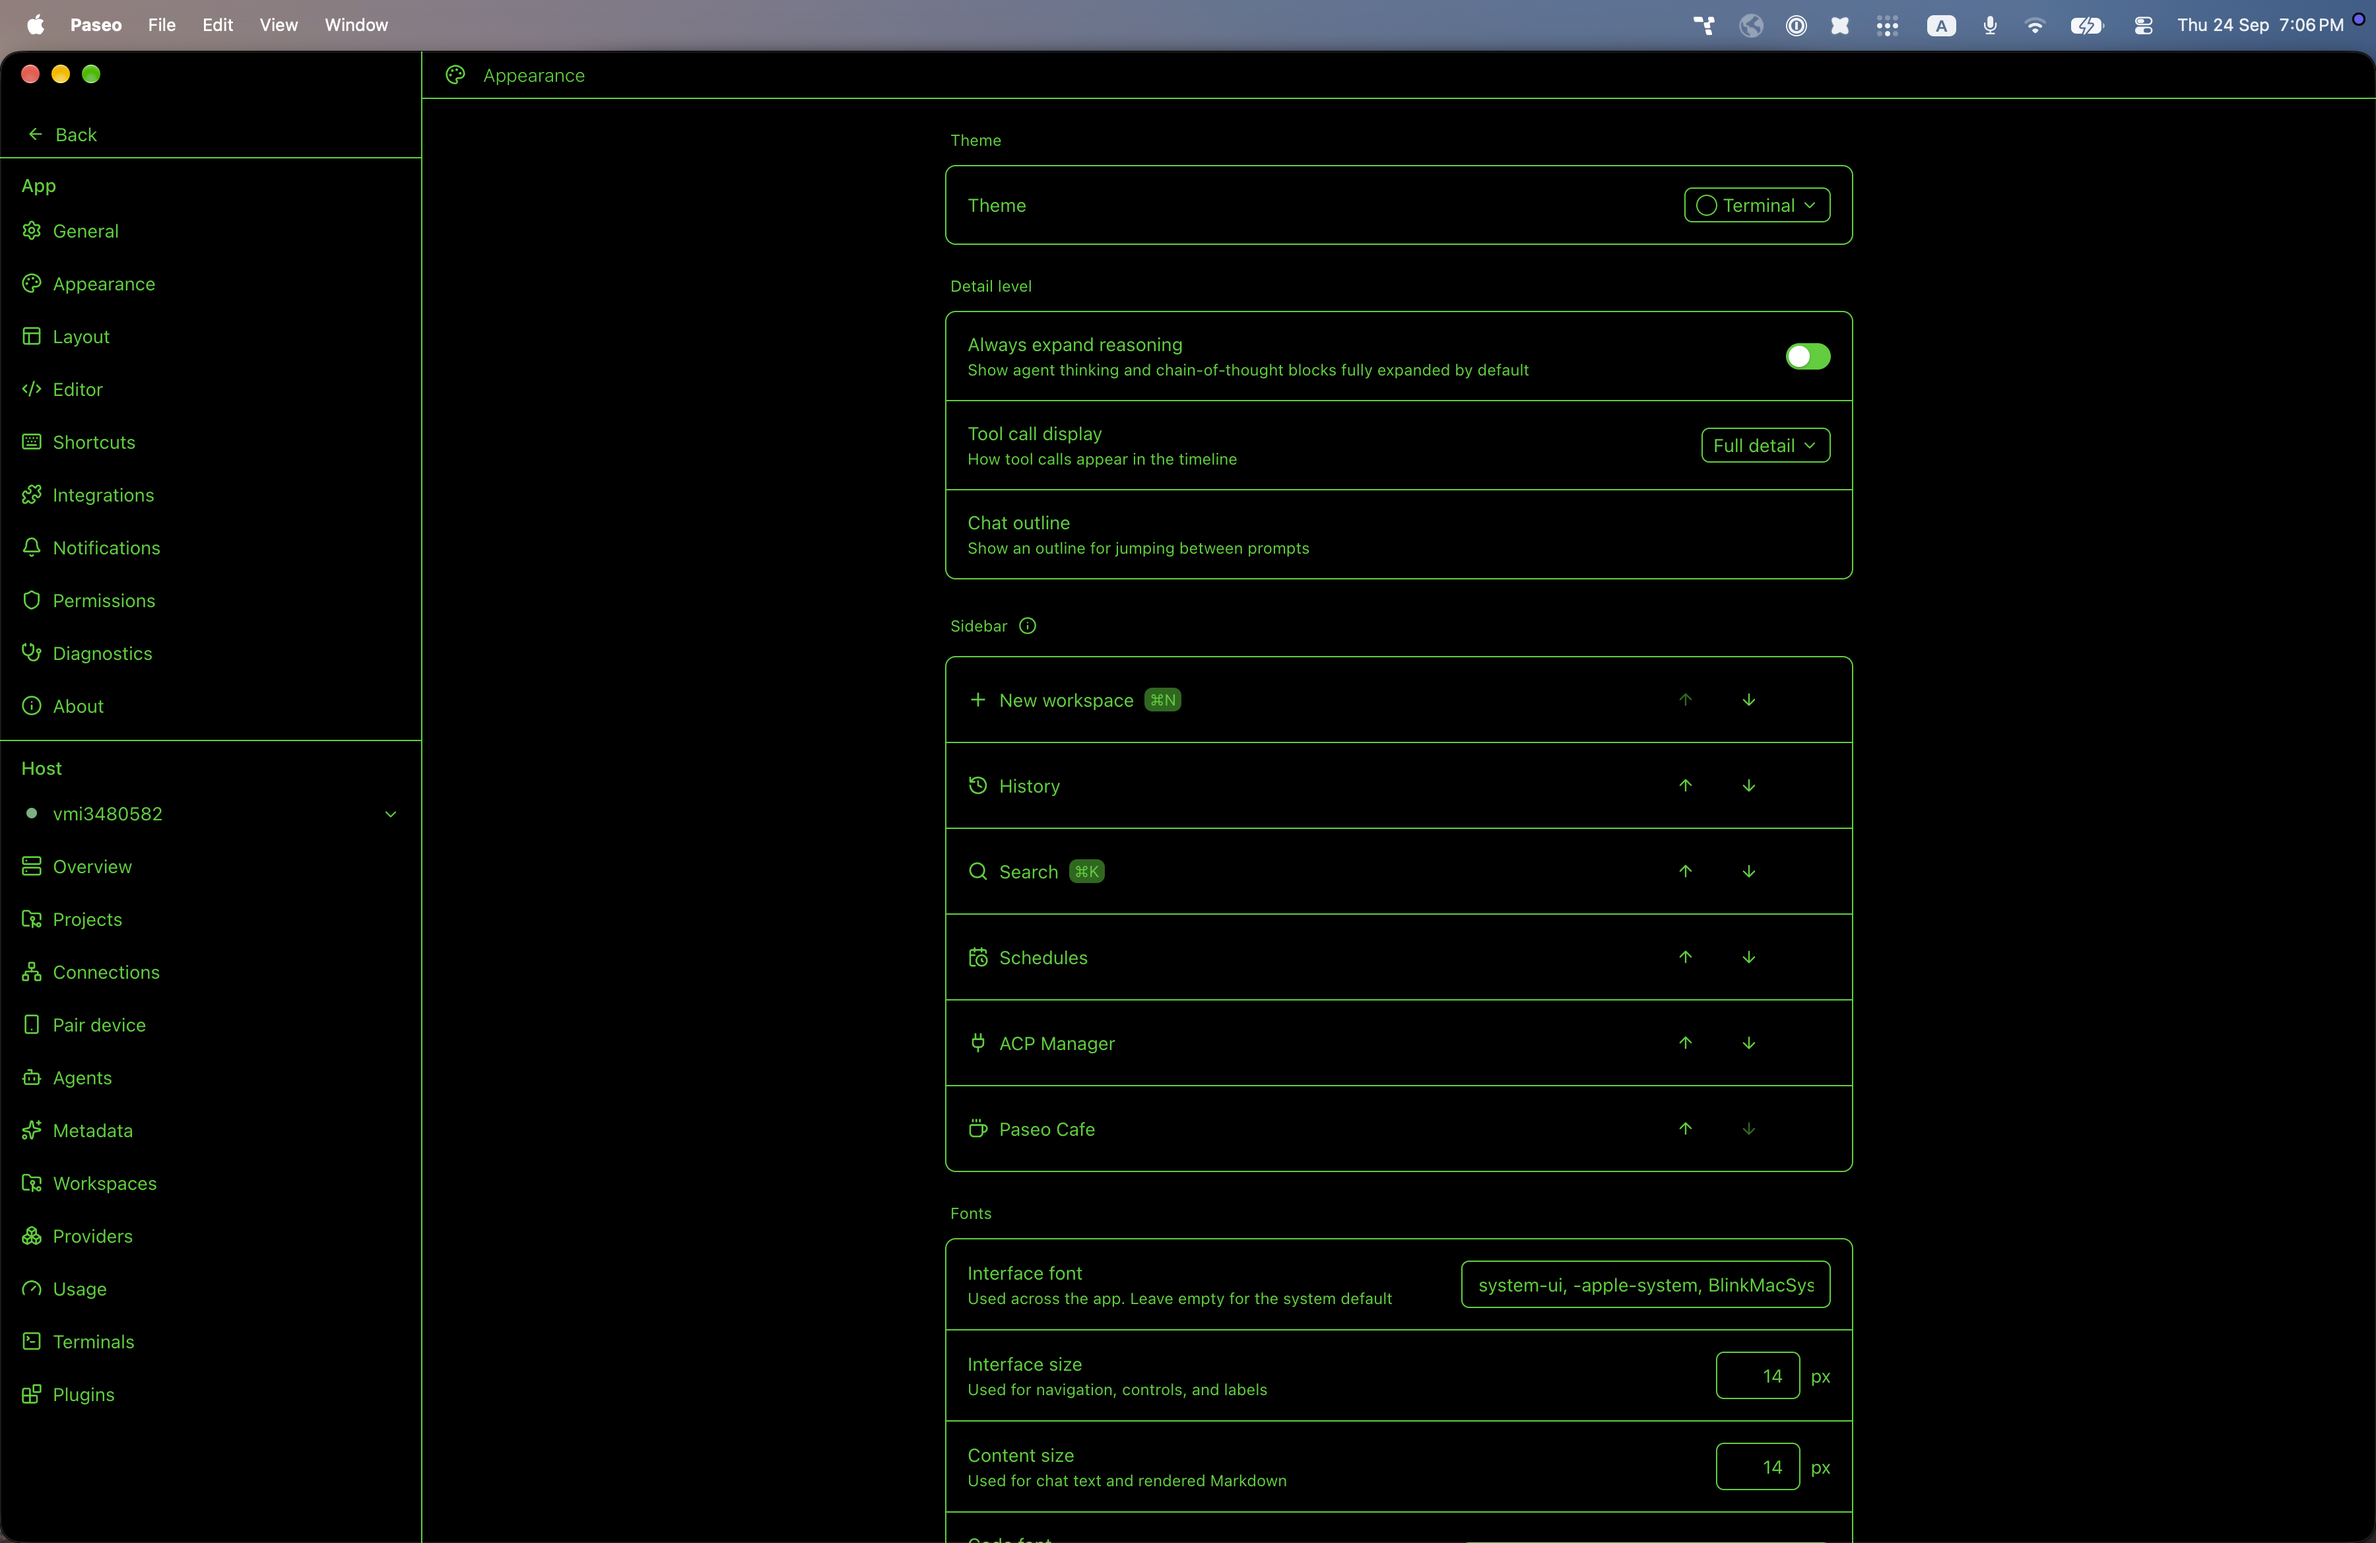
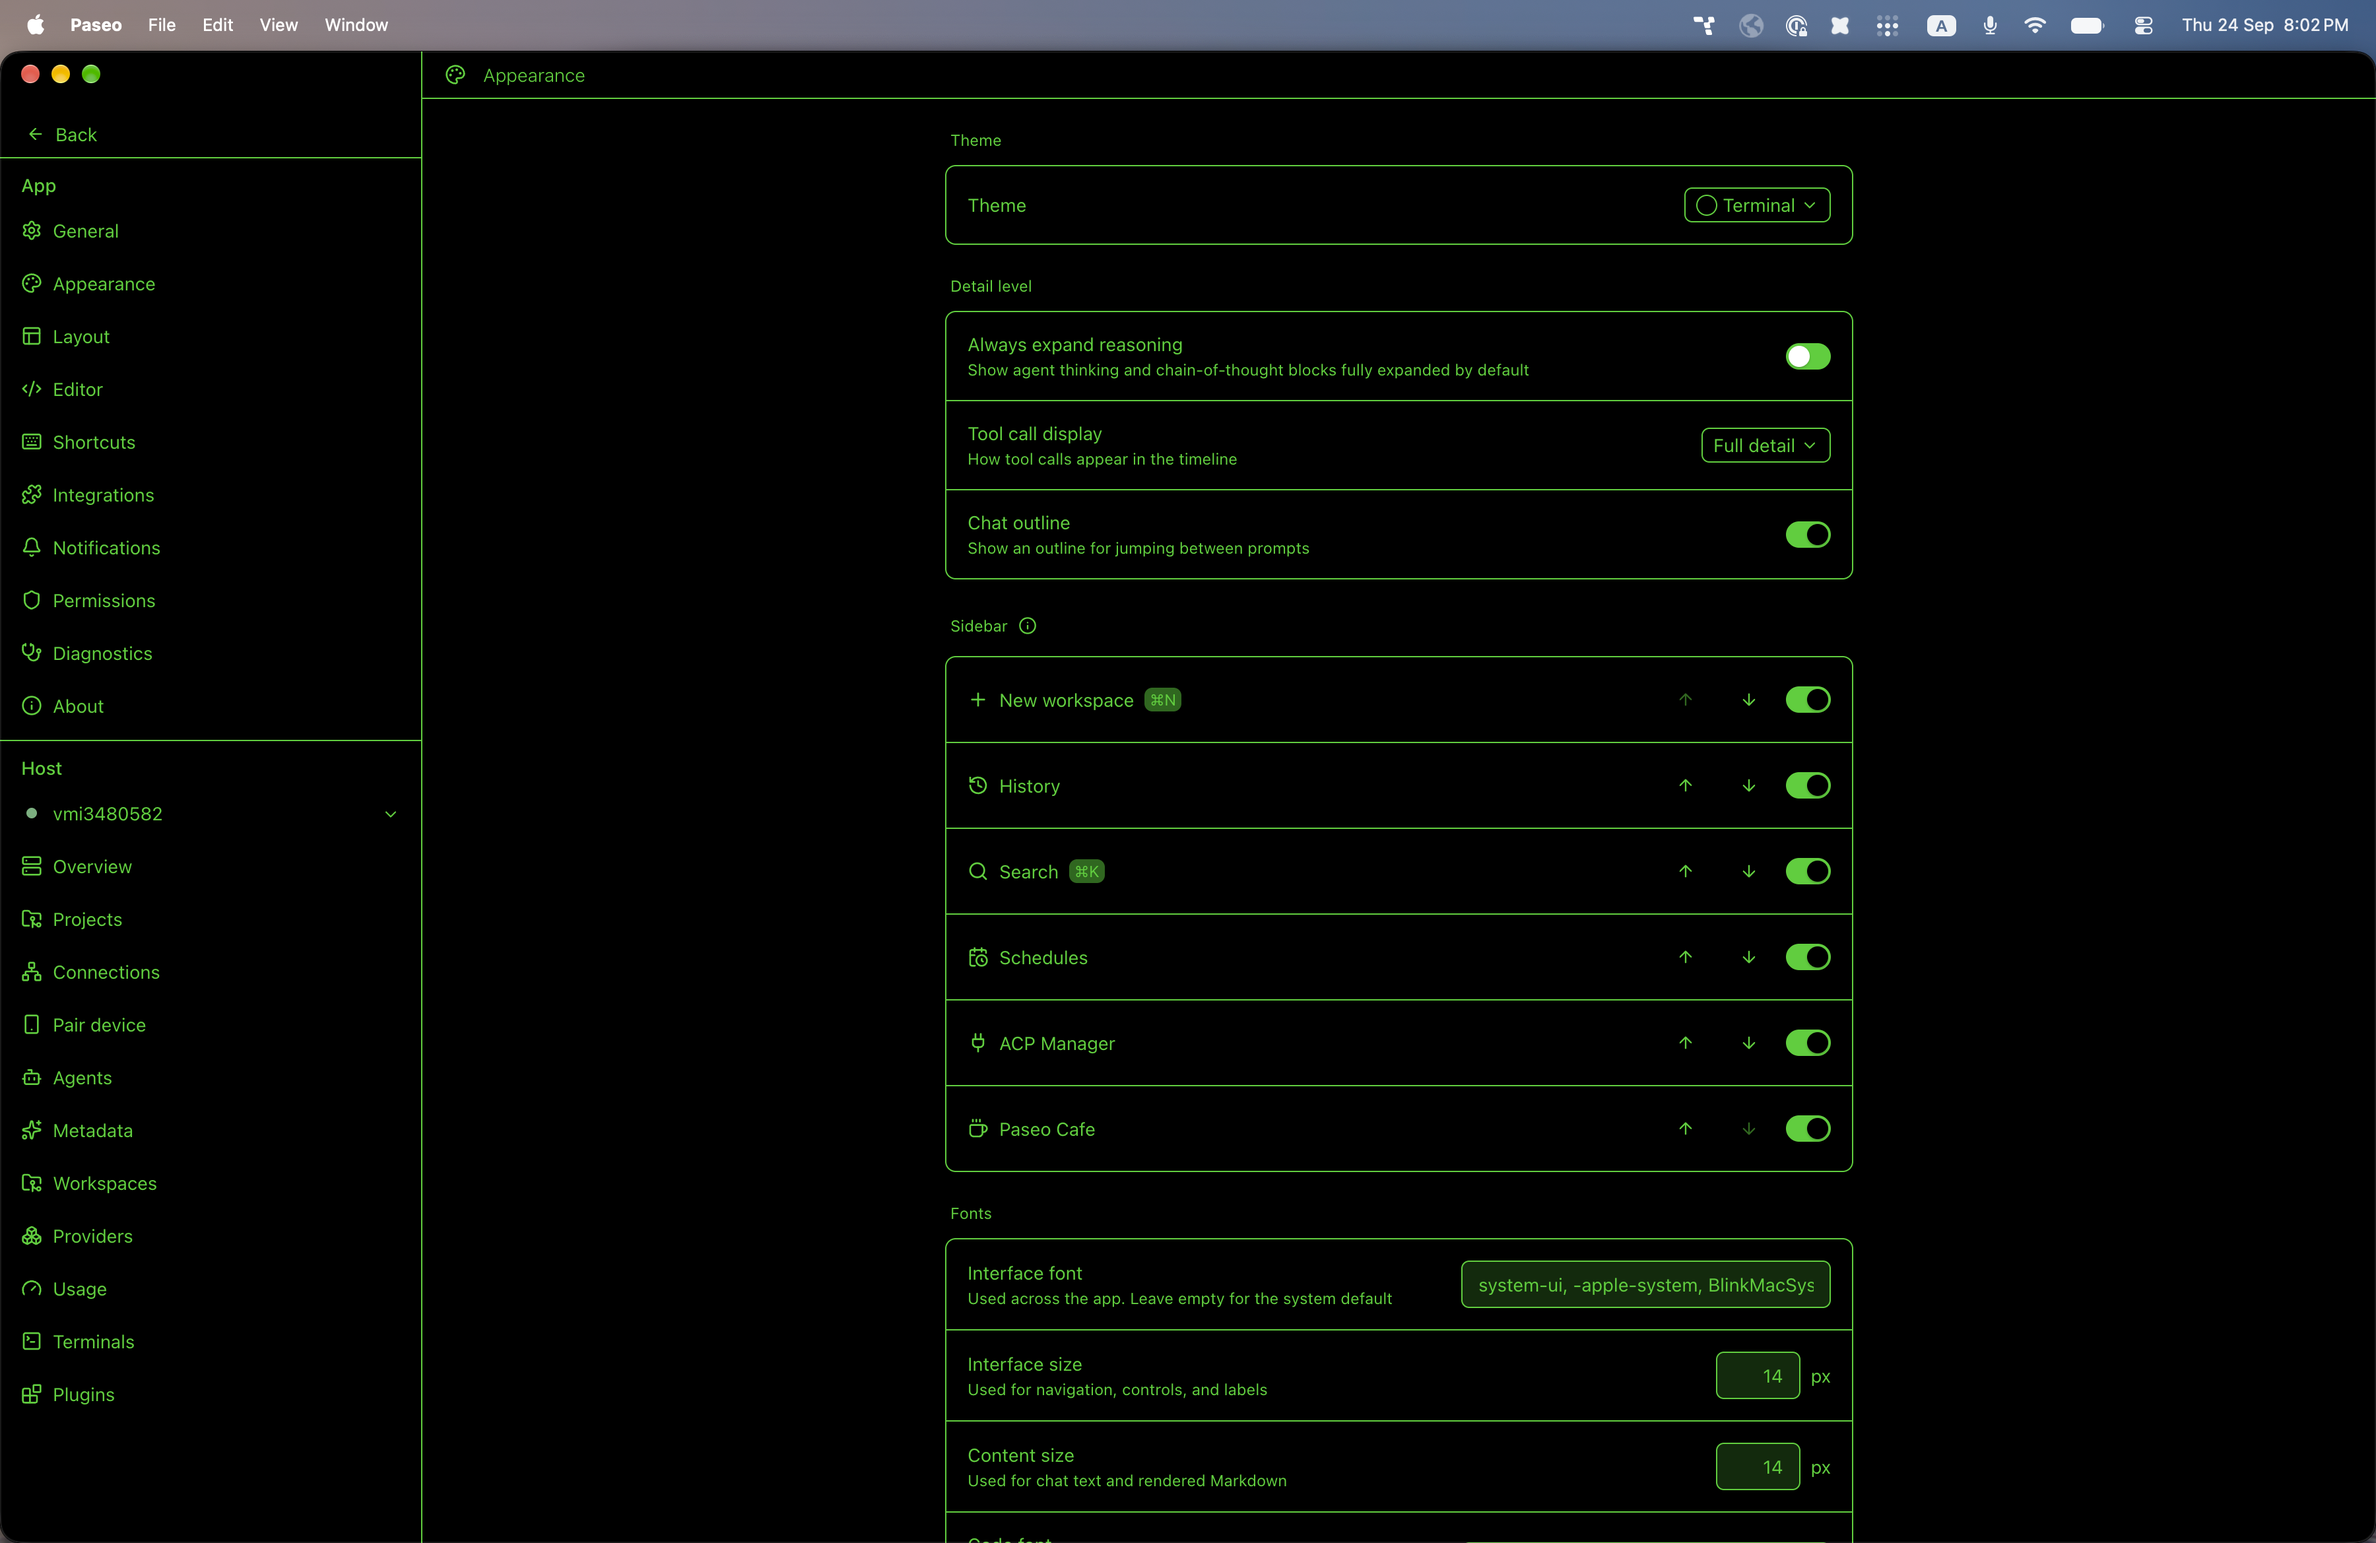
Fix invisible toggles in Terminal theme, refresh preview
control, accent, and ring were all pure black like the background,
so toggle tracks and on-states disappeared entirely. Switched them
to the theme's green to match the border/foreground. Bumped to
0.1.2 and replaced the preview image.

diff --git a/packages/paseo-terminal-theme/index.client.ts b/packages/paseo-terminal-theme/index.client.ts
@@ -10,11 +10,11 @@ export default function contribute(client: PluginClientContext) {
 			background: "#000000",
 			foreground: "#15d00d",
 			raised: "#000000",
-			control: "#000000",
+			control: "#0a2b08",
 			border: "#15d00d",
-			accent: "#000000",
+			accent: "#15d00d",
 			mutedForeground: "#15d00d",
-			ring: "#000000",
+			ring: "#15d00d",
 		},
 	});
 
